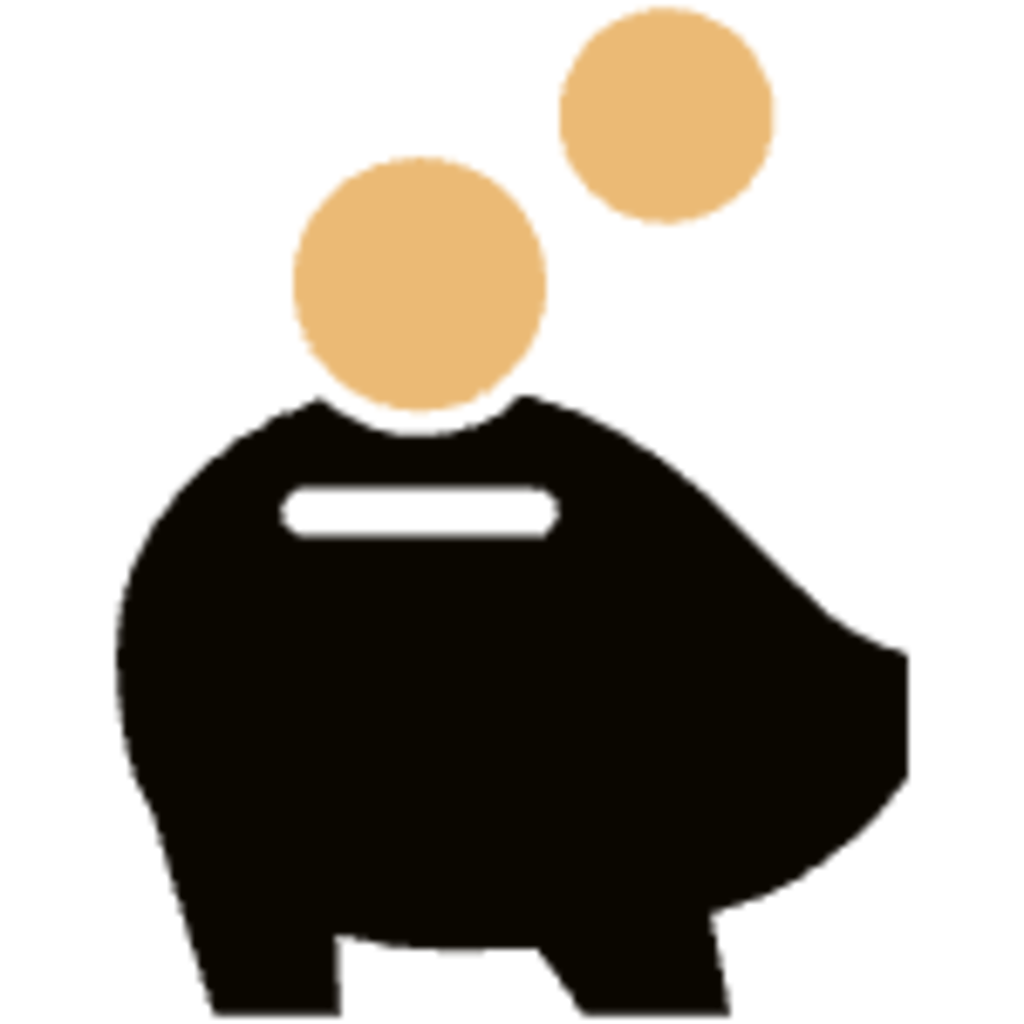
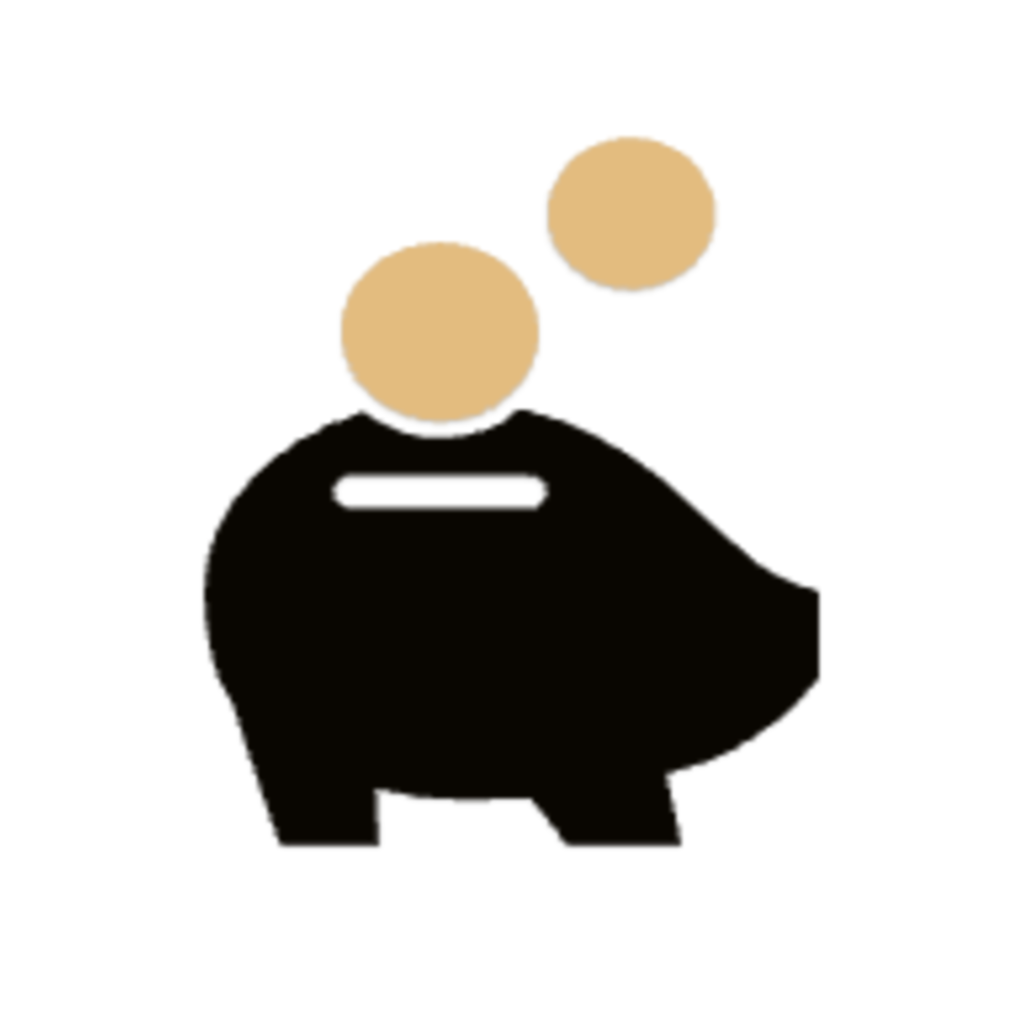
website update

Changed region(s): [[0.0938, 0.0, 0.9062, 1.0]]

diff --git a/index.html b/index.html
@@ -42,7 +42,7 @@
                                 <div class="fs-3 fw-light text-muted">We can manage your budget</div>
                                 <h1 class="display-3 fw-bolder mb-5"><span class="text-gradient d-inline">A penny saved is a penny earned</span></h1>
                                 <div class="d-grid gap-3 d-sm-flex justify-content-sm-center justify-content-xxl-start mb-3">
-                                    <a class="btn btn-outline-dark btn-lg px-5 py-3 fs-6 fw-bolder" href="https://www.apple.com/jp/">Download</a>
+                                    <a class="btn btn-outline-dark btn-lg px-5 py-3 fs-6 fw-bolder" href="https://apps.apple.com/us/app/penny-keep/id6742743609">Download</a>
                                 </div>
                             </div>
                         </div>
